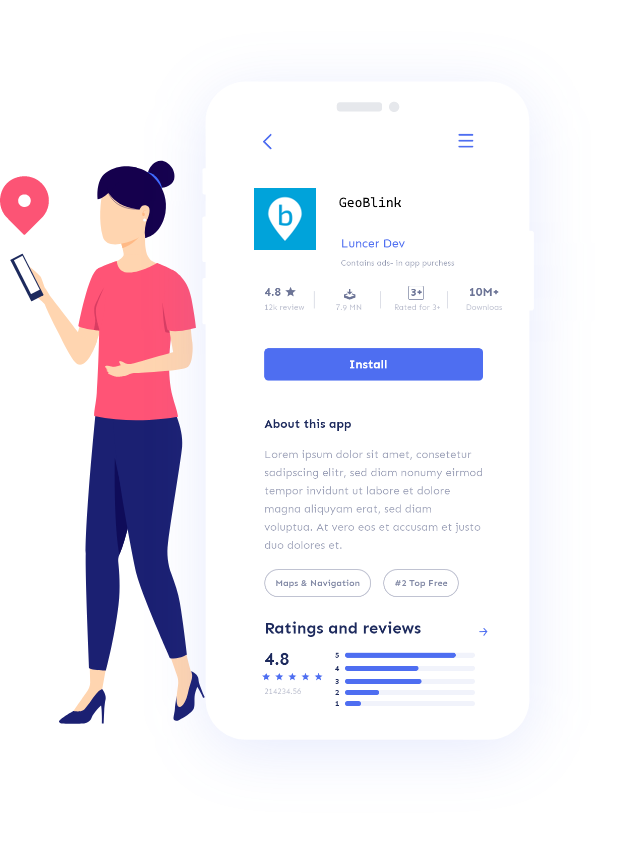
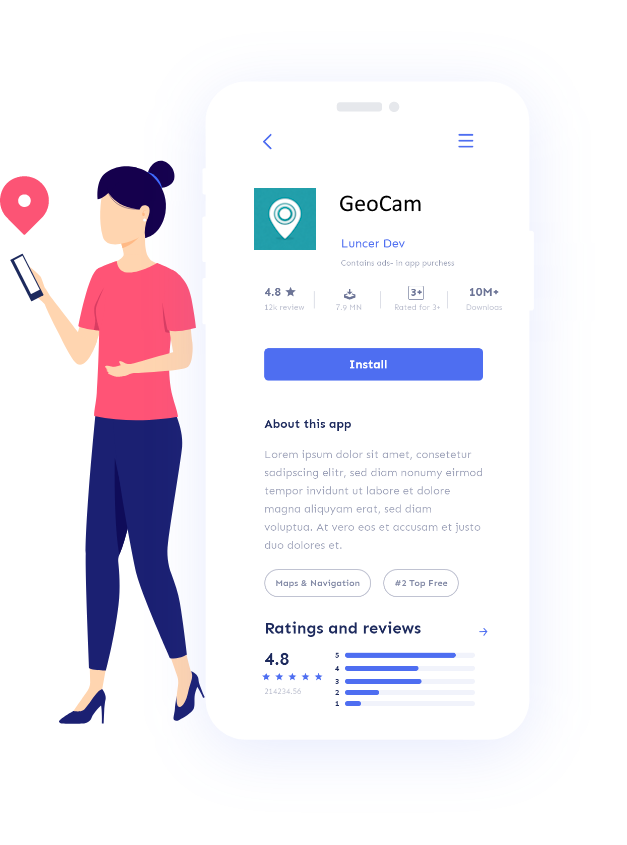
Rename GeoBlink to GeoCam across all relevant files, update meta descriptions, links, and images accordingly; adjust CSS color scheme for consistency with new branding.

Changed region(s): [[0.3939, 0.2154, 0.5152, 0.3077], [0.5455, 0.2154, 0.6667, 0.2462]]

diff --git a/index.html b/index.html
@@ -3,27 +3,27 @@
   <head>
     <meta charset="utf-8" />
     <meta http-equiv="x-ua-compatible" content="ie=edge" />
-    <title>GeoBlink - Geofencing for Blink Smart Security | Auto Arm/Disarm</title>
-    <meta name="description" content="Your Blink cameras arm when you leave and disarm when you come home. GeoBlink adds geofencing to Blink—set your zone once, then forget it. 7-day free trial, then from €1.99/mo (billed in your local currency). iOS and Android." />
+    <title>GeoCam - Geofencing for Blink Smart Security | Auto Arm/Disarm</title>
+    <meta name="description" content="Your Blink cameras arm when you leave and disarm when you come home. GeoCam adds geofencing to Blink—set your zone once, then forget it. 7-day free trial, then from €1.99/mo (billed in your local currency). iOS and Android." />
     <meta name="viewport" content="width=device-width, initial-scale=1" />
-    <link rel="canonical" href="https://geoblink.matteotomasini.com/" />
+    <link rel="canonical" href="https://geocam.matteotomasini.com/" />
     <link rel="shortcut icon" type="image/x-icon" href="assets/img/favicon.png"/>
     <!-- Open Graph / Facebook -->
     <meta property="og:type" content="website" />
-    <meta property="og:url" content="https://geoblink.matteotomasini.com/" />
-    <meta property="og:title" content="GeoBlink - Geofencing for Blink Smart Security" />
+    <meta property="og:url" content="https://geocam.matteotomasini.com/" />
+    <meta property="og:title" content="GeoCam - Geofencing for Blink Smart Security" />
     <meta property="og:description" content="Blink cameras arm when you leave, disarm when you come home. 7-day free trial, then from €1.99/mo (billed in your local currency). iOS and Android." />
-    <meta property="og:image" content="https://geoblink.matteotomasini.com/assets/img/hero/hero-img.png" />
+    <meta property="og:image" content="https://geocam.matteotomasini.com/assets/img/hero/hero-img.png" />
     <meta property="og:locale" content="en_US" />
     <!-- Twitter -->
     <meta name="twitter:card" content="summary_large_image" />
-    <meta name="twitter:url" content="https://geoblink.matteotomasini.com/" />
-    <meta name="twitter:title" content="GeoBlink - Geofencing for Blink Smart Security" />
+    <meta name="twitter:url" content="https://geocam.matteotomasini.com/" />
+    <meta name="twitter:title" content="GeoCam - Geofencing for Blink Smart Security" />
     <meta name="twitter:description" content="Blink arms when you leave, disarms when you're home. 7-day free trial, then from €1.99/mo (billed in your local currency). iOS and Android." />
-    <meta name="twitter:image" content="https://geoblink.matteotomasini.com/assets/img/hero/hero-img.png" />
+    <meta name="twitter:image" content="https://geocam.matteotomasini.com/assets/img/hero/hero-img.png" />
     <!-- Structured data for search -->
     <script type="application/ld+json">
-    {"@context":"https://schema.org","@type":"SoftwareApplication","name":"GeoBlink","applicationCategory":"UtilitiesApplication","operatingSystem":"Android, iOS","description":"Geofencing app for Blink. Arm when you leave, disarm when you return. 7-day free trial, then subscription.","offers":{"@type":"Offer","price":"1.99","priceCurrency":"EUR","priceValidUntil":"2026-12-31","description":"7-day free trial, then €1.99/month or €19.99/year (USD in US)"}}
+    {"@context":"https://schema.org","@type":"SoftwareApplication","name":"GeoCam","applicationCategory":"UtilitiesApplication","operatingSystem":"Android, iOS","description":"Geofencing app for Blink. Arm when you leave, disarm when you return. 7-day free trial, then subscription.","offers":{"@type":"Offer","price":"1.99","priceCurrency":"EUR","priceValidUntil":"2026-12-31","description":"7-day free trial, then €1.99/month or €19.99/year (USD in US)"}}
     </script>
 
     <!-- ========================= CSS here ========================= -->
@@ -69,7 +69,7 @@
             <div class="col-lg-12">
               <nav class="navbar navbar-expand-lg">
                 <a class="navbar-brand" href="index.html">
-                  <img src="assets/img/logo/logo-blu.png" alt="GeoBlink - Geofencing for Blink Smart Security" />
+                  <img src="assets/img/logo/logo-blu.png" alt="GeoCam - Geofencing for Blink Smart Security" />
                 </a>
                 <button class="navbar-toggler" type="button" data-toggle="collapse" data-target="#navbarSupportedContent" aria-controls="navbarSupportedContent" aria-expanded="false" aria-label="Toggle navigation">
                   <span class="toggler-icon"></span>
@@ -116,20 +116,20 @@
           <div class="col-lg-6">
             <div class="hero-content">
               <h1 class="wow fadeInUp" data-wow-delay=".2s" style="font-size: 40px;">
-                Your Blink cameras<br>Arm when you leave<br />Disarm when you come home.
+                Your Blink cameras:<br>arm when you leave,<br />disarm when you come home.
               </h1>
               <p class="wow fadeInUp" data-wow-delay=".4s">
-                GeoBlink adds geofencing to Blink: set a zone around your home once, and your cameras turn on and off automatically. No more forgetting—just leave or arrive and you're covered.
+                GeoCam adds geofencing to Blink: set a zone around your home once, and your cameras turn on and off automatically. No more forgetting—just leave or arrive and you're covered.
               </p>
               <div class="hero-btns">
-								<a href="https://apps.apple.com/it/app/geoblink/id6447012622" style="display: inline-block; border-radius: 13px; width: 250px; height: 83px;"><img src="https://tools.applemediaservices.com/api/badges/download-on-the-app-store/black/en-us?size=250x83&amp;releaseDate=1461110400" alt="Download on the App Store" style="border-radius: 13px; width: 250px; height: 83px;"></a>
+								<a href="https://apps.apple.com/it/app/geocam/id6447012622" style="display: inline-block; border-radius: 13px; width: 250px; height: 83px;"><img src="https://tools.applemediaservices.com/api/badges/download-on-the-app-store/black/en-us?size=250x83&amp;releaseDate=1461110400" alt="Download on the App Store" style="border-radius: 13px; width: 250px; height: 83px;"></a>
 								<a href='https://play.google.com/store/apps/details?id=com.matteotomasini.geoblink&pcampaignid=pcampaignidMKT-Other-global-all-co-prtnr-py-PartBadge-Mar2515-1'><img alt='Get it on Google Play' src='https://play.google.com/intl/en_us/badges/static/images/badges/en_badge_web_generic.png' style='width:300px'/></a>
 							</div>
             </div>
 					</div>
 					<div class="col-lg-6">
 						<div class="hero-img wow fadeInUp" data-wow-delay=".5s">
-							<img src="assets/img/hero/hero-img.png" alt="GeoBlink app showing geofencing and Blink camera control on phone">
+							<img src="assets/img/hero/hero-img.png" alt="GeoCam app showing geofencing and Blink camera control on phone">
 						</div>
 					</div>
         </div>
@@ -147,7 +147,7 @@
 					<div class="col-xxl-5 col-xl-6 col-lg-7">
 						<div class="section-title text-center mb-30">
 							<h2 class="mb-25 wow fadeInUp" data-wow-delay=".2s">Set it once. Then forget it.</h2>
-							<p class="wow fadeInUp" data-wow-delay=".4s">GeoBlink turns your Blink cameras on when you leave and off when you return—automatically. No app to open, no buttons to tap.</p>
+							<p class="wow fadeInUp" data-wow-delay=".4s">GeoCam turns your Blink cameras on when you leave and off when you return—automatically. No app to open, no buttons to tap.</p>
 						</div>
 					</div>
 				</div>
@@ -200,13 +200,13 @@
 				<div class="row align-items-center">
 					<div class="col-lg-6 col-xl-7 order-1 order-lg-0">
 						<div class="tracking-image">
-							<img src="assets/img/plan/plan-img.png" alt="Why use GeoBlink - home protection and geofencing benefits" loading="lazy">
+							<img src="assets/img/plan/plan-img.png" alt="Why use GeoCam - home protection and geofencing benefits" loading="lazy">
 						</div>
 					</div>
 					<div class="col-lg-6 col-xl-5 order-0 order-lg-1">
 						<div class="tracking-content">
 							<div class="section-title mb-50">
-								<h2 class="mb-40 wow fadeInUp" data-wow-delay=".2s">Why GeoBlink?</h2>
+								<h2 class="mb-40 wow fadeInUp" data-wow-delay=".2s">Why GeoCam?</h2>
 								<p class="wow fadeInUp" data-wow-delay=".4s">You draw a zone around your home in the app. When you leave and cross that zone, Blink arms. When you come back and re-enter, Blink disarms. One setup, then it runs in the background—no more "did I turn the cameras on?"</p>
 							</div>
 							<div class="single-plan">
@@ -224,7 +224,7 @@
 								</div>
 								<div class="content">
 									<h3>Zero daily effort</h3>
-									<p>Stop opening the Blink app every time you leave or get home. GeoBlink handles it so you can focus on your day.</p>
+									<p>Stop opening the Blink app every time you leave or get home. GeoCam handles it so you can focus on your day.</p>
 								</div>
 							</div>
 							<div class="single-plan">
@@ -254,7 +254,7 @@
 						<div class="search-content">
 							<div class="section-title mb-40">
 								<h2 class="mb-40 wow fadeInUp" data-wow-delay=".2s">How it works</h2>
-								<p class="wow fadeInUp" data-wow-delay=".4s">You choose the area around your home (the "geofence"). When your phone leaves that area, GeoBlink tells Blink to arm. When you come back inside the zone, it disarms. You can tweak the zone size and, with Pro, add other family phones so the system knows when everyone's away. It's built only for Blink—no extra hubs or hardware.</p>
+								<p class="wow fadeInUp" data-wow-delay=".4s">You choose the area around your home (the "geofence"). When your phone leaves that area, GeoCam tells Blink to arm. When you come back inside the zone, it disarms. You can tweak the zone size and, with Pro, add other family phones so the system knows when everyone's away. It's built only for Blink—no extra hubs or hardware.</p>
 							</div>
 							<div class="app-info">
 								<div class="single-info">
@@ -281,7 +281,7 @@
 
 					<div class="col-xl-7 col-lg-6 order-1 order-lg-last">
 						<div class="search-img text-lg-right">
-							<img src="assets/img/search/search-img.png" alt="Explore GeoBlink features and geofencing for Blink" loading="lazy">
+							<img src="assets/img/search/search-img.png" alt="Explore GeoCam features and geofencing for Blink" loading="lazy">
 						</div>
 					</div>
 				</div>
@@ -351,11 +351,11 @@
 						<div class="download-content mb-50">
 							<div class="section-title mb-40">
 								<h2 class="mb-30 wow fadeInUp" data-wow-delay=".2s">Start your 7-day free trial</h2>
-								<p class="wow fadeInUp" data-wow-delay=".4s">Download the app, connect your Blink account, and set your home zone. Try GeoBlink free for 7 days. Then <span id="price-display">€1.99 per month or €19.99 per year</span>—cancel anytime.</p>
+								<p class="wow fadeInUp" data-wow-delay=".4s">Download the app, connect your Blink account, and set your home zone. Try GeoCam free for 7 days. Then <span id="price-display">€1.99 per month or €19.99 per year</span>—cancel anytime.</p>
 							</div>
 							<ul class="download">
 								<li>
-									<a href="https://apps.apple.com/it/app/geoblink/id6447012622" style="display: inline-block; border-radius: 13px; width: 250px; height: 83px;"><img src="https://tools.applemediaservices.com/api/badges/download-on-the-app-store/black/en-us?size=250x83&amp;releaseDate=1461110400" alt="Download on the App Store" style="border-radius: 13px; width: 250px; height: 83px;"></a>
+									<a href="https://apps.apple.com/it/app/geocam/id6447012622" style="display: inline-block; border-radius: 13px; width: 250px; height: 83px;"><img src="https://tools.applemediaservices.com/api/badges/download-on-the-app-store/black/en-us?size=250x83&amp;releaseDate=1461110400" alt="Download on the App Store" style="border-radius: 13px; width: 250px; height: 83px;"></a>
 								</li>
 								<li>
 									<a href='https://play.google.com/store/apps/details?id=com.matteotomasini.geoblink&pcampaignid=pcampaignidMKT-Other-global-all-co-prtnr-py-PartBadge-Mar2515-1' style='background: none; box-shadow: none;'>
@@ -367,7 +367,7 @@
 					</div>
 					<div class="col-lg-6 order-1 order-lg-last">
 						<div class="download-img mb-50 text-lg-right">
-							<img src="assets/img/download/download-img.png" alt="Download GeoBlink on App Store and Google Play" loading="lazy">
+							<img src="assets/img/download/download-img.png" alt="Download GeoCam on App Store and Google Play" loading="lazy">
 						</div>
 					</div>
 				</div>

diff --git a/privacy.html b/privacy.html
@@ -3,10 +3,10 @@
   <head>
     <meta charset="utf-8" />
     <meta http-equiv="x-ua-compatible" content="ie=edge" />
-    <title>Privacy Policy – GeoBlink</title>
-    <meta name="description" content="GeoBlink Privacy Policy: how we collect, use, and protect your data when you use our Blink geofencing app." />
+    <title>Privacy Policy – GeoCam</title>
+    <meta name="description" content="GeoCam Privacy Policy: how we collect, use, and protect your data when you use our Blink geofencing app." />
     <meta name="viewport" content="width=device-width, initial-scale=1" />
-    <link rel="canonical" href="https://geoblink.matteotomasini.com/privacy.html" />
+    <link rel="canonical" href="https://geocam.matteotomasini.com/privacy.html" />
     <link rel="shortcut icon" type="image/x-icon" href="assets/img/favicon.png"/>
     <link rel="stylesheet" href="assets/css/bootstrap-5.0.0-alpha-2.min.css" />
     <link rel="stylesheet" href="assets/css/LineIcons.2.0.css" />
@@ -22,7 +22,7 @@
             <div class="col-lg-12">
               <nav class="navbar navbar-expand-lg">
                 <a class="navbar-brand" href="index.html">
-                  <img src="assets/img/logo/logo-blu.png" alt="GeoBlink - Geofencing for Blink Smart Security" />
+                  <img src="assets/img/logo/logo-blu.png" alt="GeoCam - Geofencing for Blink Smart Security" />
                 </a>
                 <button class="navbar-toggler" type="button" data-toggle="collapse" data-target="#navbarSupportedContent" aria-controls="navbarSupportedContent" aria-expanded="false" aria-label="Toggle navigation">
                   <span class="toggler-icon"></span>
@@ -60,8 +60,8 @@
       <ul>
         <li><p><strong>Account</strong> means a unique account created for You to access our Service or parts of our Service.</p></li>
         <li><p><strong>Affiliate</strong> means an entity that controls, is controlled by or is under common control with a party, where &quot;control&quot; means ownership of 50% or more of the shares, equity interest or other securities entitled to vote for election of directors or other managing authority.</p></li>
-        <li><p><strong>Application</strong> refers to GeoBlink, the software program provided by the Company.</p></li>
-        <li><p><strong>Company</strong> (referred to as either &quot;the Company&quot;, &quot;We&quot;, &quot;Us&quot; or &quot;Our&quot; in this Agreement) refers to GeoBlink.</p></li>
+        <li><p><strong>Application</strong> refers to GeoCam, the software program provided by the Company.</p></li>
+        <li><p><strong>Company</strong> (referred to as either &quot;the Company&quot;, &quot;We&quot;, &quot;Us&quot; or &quot;Our&quot; in this Agreement) refers to GeoCam.</p></li>
         <li><p><strong>Country</strong> refers to: Italy</p></li>
         <li><p><strong>Device</strong> means any device that can access the Service such as a computer, a cellphone or a digital tablet.</p></li>
         <li><p><strong>Personal Data</strong> is any information that relates to an identified or identifiable individual.</p></li>
@@ -157,7 +157,7 @@
       <h2>Contact Us</h2>
       <p>If you have any questions about this Privacy Policy, You can contact us:</p>
       <ul>
-        <li>By email: privacy@geoblink.app</li>
+        <li>By email: geocam@matteotomasini.com</li>
       </ul>
     </main>
 

diff --git a/assets/css/main.css b/assets/css/main.css
@@ -41,7 +41,7 @@ button:focus,
 }
 
 a:hover {
-  color: #4E6EF1;
+  color: #22A0AB;
 }
 
 a {
@@ -171,7 +171,7 @@ p {
   z-index: 5;
   transition: all .4s ease-in-out;
   border: none;
-  background: #4E6EF1;
+  background: #22A0AB;
   overflow: hidden;
 }
 
@@ -180,7 +180,7 @@ p {
 }
 
 .main-btn.border-btn {
-  border: 2px solid #4E6EF1;
+  border: 2px solid #22A0AB;
   background: transparent;
   color: #1D2A5D;
 }
@@ -212,7 +212,7 @@ p {
 .scroll-top {
   width: 45px;
   height: 45px;
-  background: #4E6EF1;
+  background: #22A0AB;
   display: flex;
   justify-content: center;
   align-items: center;
@@ -229,7 +229,7 @@ p {
 
 .scroll-top:hover {
   color: #fff;
-  background: rgba(78, 110, 241, 0.8);
+  background: rgba(34, 160, 171, 0.8);
 }
 
 @keyframes animation1 {
@@ -318,7 +318,7 @@ p {
   height: 100%;
   border-style: solid;
   /* Spinner Color */
-  border-color: #4E6EF1 #4E6EF1 #ddd;
+  border-color: #22A0AB #22A0AB #ddd;
   border-radius: 50%;
   border-width: 6px;
 }
@@ -1284,7 +1284,7 @@ p {
   position: absolute;
   bottom: 0;
   height: 2px;
-  background: #4E6EF1;
+  background: #22A0AB;
   z-index: -1;
   opacity: 0;
   border-radius: 10px;
@@ -1302,7 +1302,7 @@ p {
 }
 
 .navbar-nav .nav-item a:hover, .navbar-nav .nav-item a.active {
-  color: #4E6EF1;
+  color: #22A0AB;
 }
 
 .navbar-nav .nav-item a:hover::after, .navbar-nav .nav-item a:hover::before, .navbar-nav .nav-item a.active::after, .navbar-nav .nav-item a.active::before {
@@ -1385,7 +1385,7 @@ p {
 
 .navbar-nav .nav-item .sub-menu li a.active, .navbar-nav .nav-item .sub-menu li a:hover {
   padding-left: 25px;
-  color: #4E6EF1;
+  color: #22A0AB;
 }
 
 .navbar-nav .sub-nav-toggler {
@@ -1505,13 +1505,13 @@ p {
 }
 
 .hero-section .hero-content .hero-btns .main-btn:hover {
-  box-shadow: 0px 3px 26px rgba(78, 110, 241, 0.39);
+  box-shadow: 0px 3px 26px rgba(34, 160, 171, 0.39);
 }
 
 .hero-section .hero-content .hero-btns .main-btn.border-btn {
   margin-right: 0;
-  color: #4E6EF1;
-  border-color: #4E6EF1;
+  color: #22A0AB;
+  border-color: #22A0AB;
 }
 
 /* Align hero download buttons for viewport 1023px–1366px */
@@ -1826,7 +1826,7 @@ p {
 }
 /* 
 .download-section .download li:first-child a {
-  background: #4E6EF1;
+  background: #22A0AB;
   color: #fff;
 }
 
@@ -1992,21 +1992,21 @@ p {
 
 @media only screen and (min-width: 992px) and (max-width: 1199px) {
   .footer .widget-wrapper .footer-widget .socials li a {
-    background: rgba(78, 110, 241, 0.1);
+    background: rgba(34, 160, 171, 0.1);
     color: #5E678C;
   }
 }
 
 @media only screen and (min-width: 768px) and (max-width: 991px) {
   .footer .widget-wrapper .footer-widget .socials li a {
-    background: rgba(78, 110, 241, 0.1);
+    background: rgba(34, 160, 171, 0.1);
     color: #5E678C;
   }
 }
 
 @media (max-width: 767px) {
   .footer .widget-wrapper .footer-widget .socials li a {
-    background: rgba(78, 110, 241, 0.1);
+    background: rgba(34, 160, 171, 0.1);
     color: #5E678C;
   }
 }
@@ -2022,7 +2022,7 @@ p {
 }
 
 .footer .widget-wrapper .footer-widget .links li a:hover {
-  color: #4E6EF1;
+  color: #22A0AB;
 }
 
 .footer .copy-right-wrapper {
@@ -2040,7 +2040,7 @@ p {
 }
 
 .footer .copy-right-wrapper p a:hover {
-  color: #4E6EF1;
+  color: #22A0AB;
 }
 
 /* =========================
